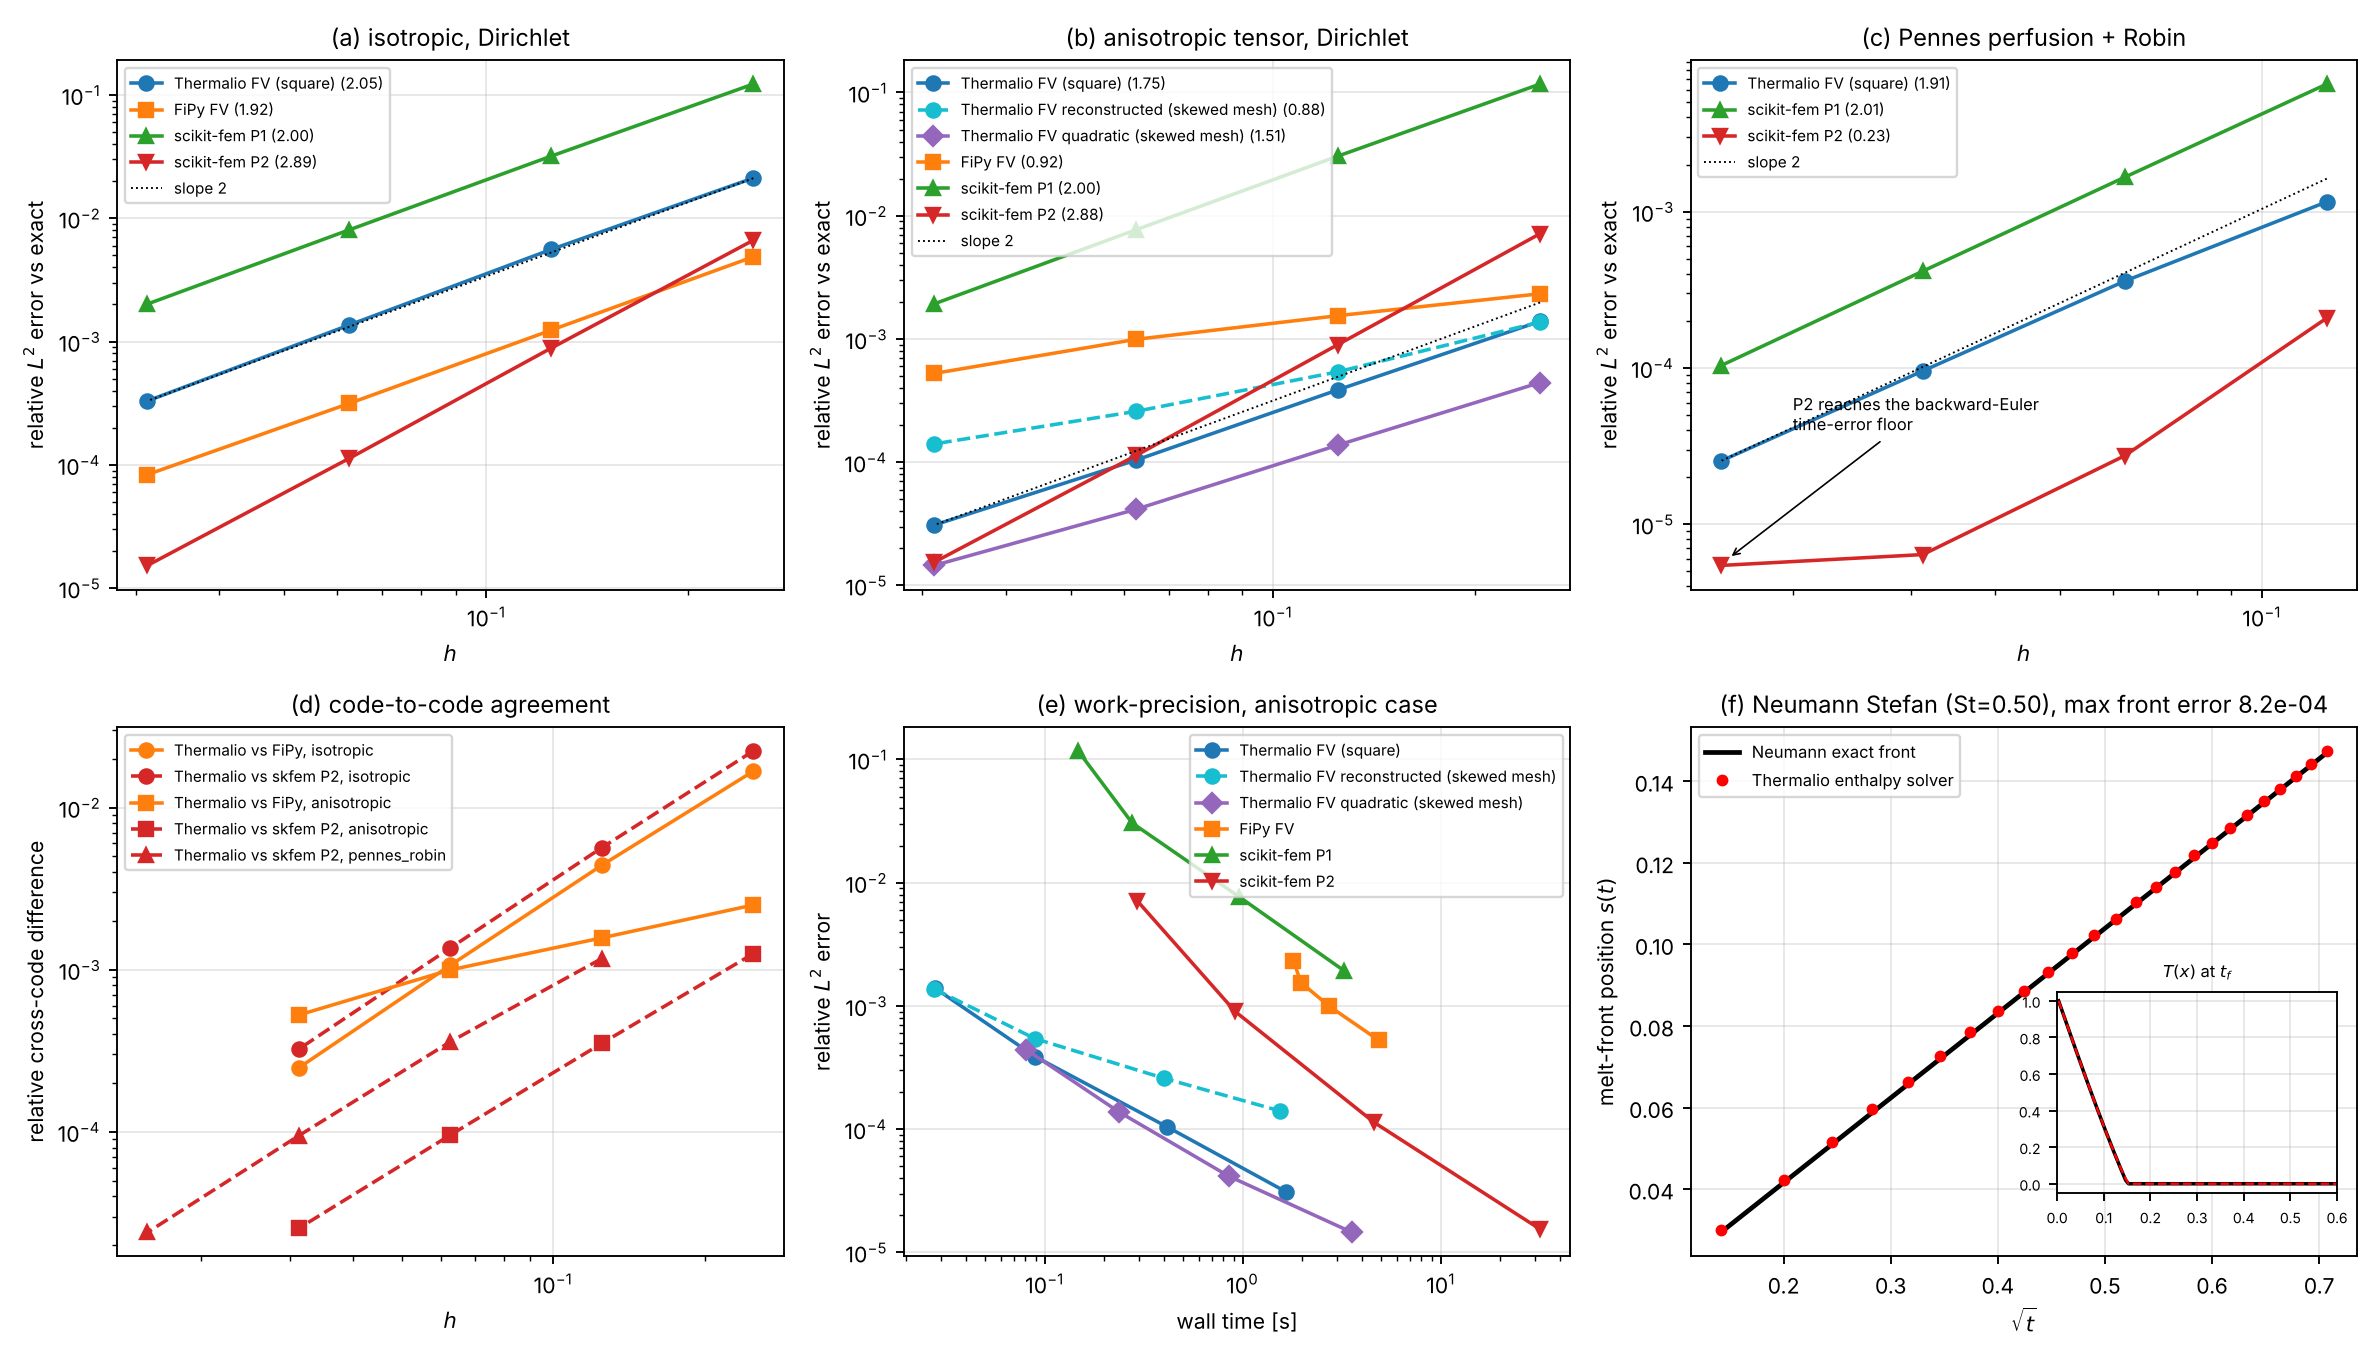
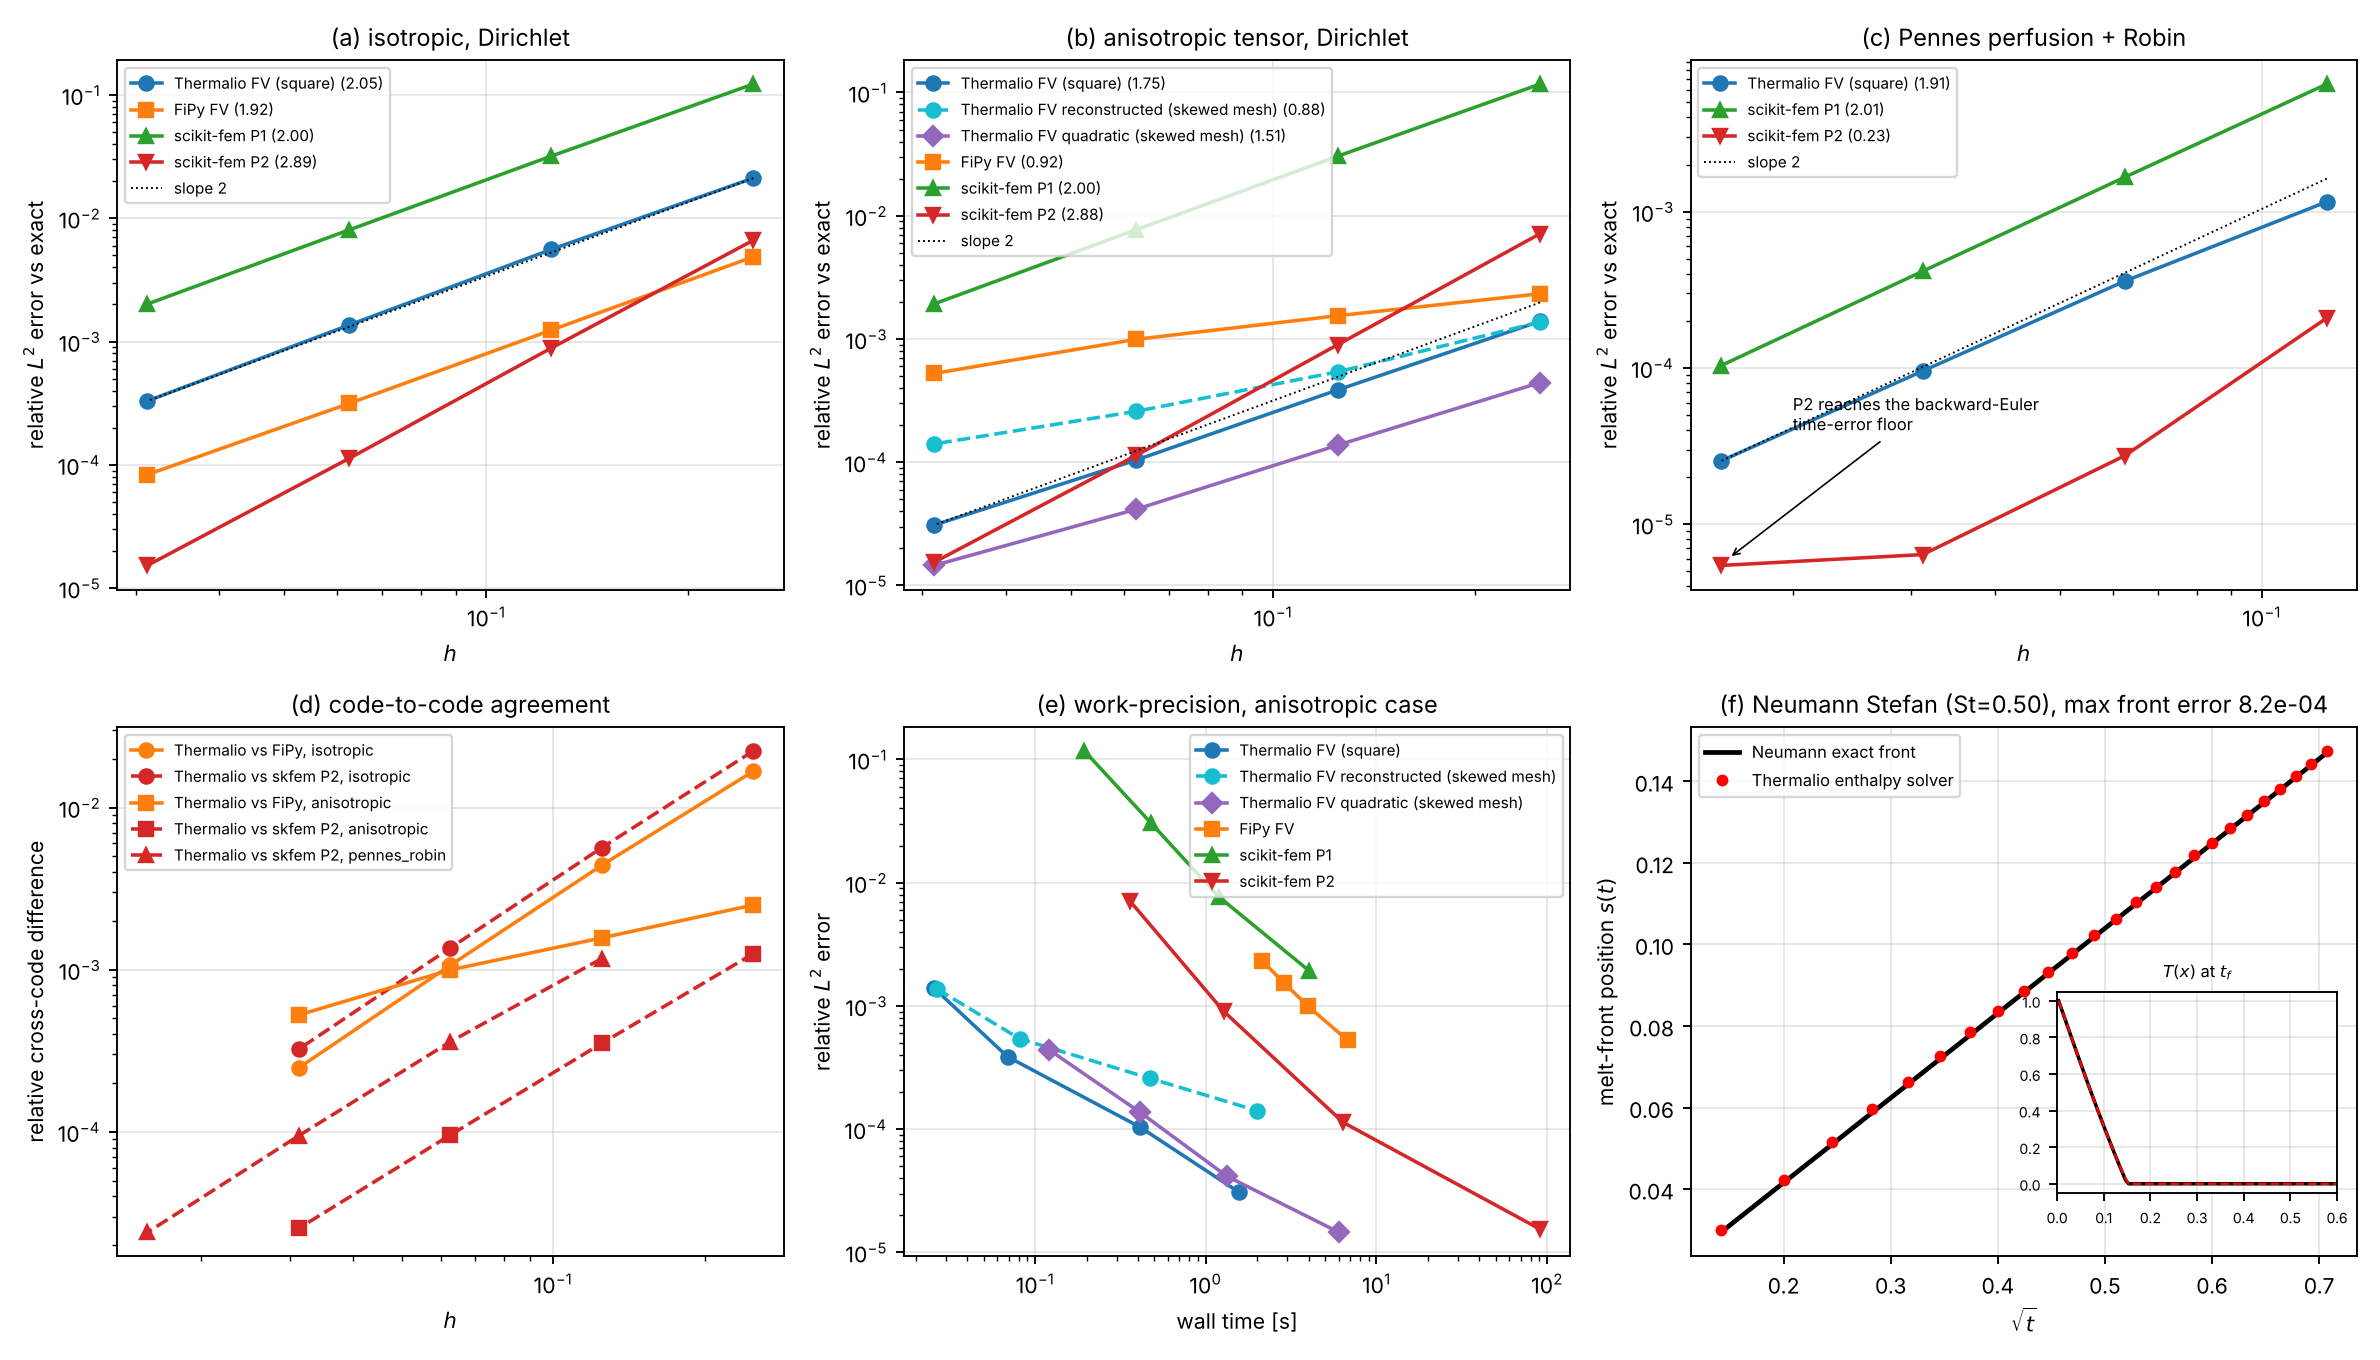
Refresh the external-code comparison with a timing figure
Rerun Thermalio vs FiPy vs scikit-fem (P1/P2) on the three manufactured
problems; new external_code_timing.png shows time to solution, per-DOF
cost, time to a target error (distinguishing 'already below target on
the coarsest mesh' from 'not reached') and work-precision per case.
--replot redraws from summary.json.

Claude-Session: https://claude.ai/code/session_011HYKRVXpQ5JX3zhN3NFDfX

diff --git a/external_code_comparison.py b/external_code_comparison.py
@@ -278,15 +278,25 @@ def _dofs(row, code):
     return row["thermalio_dofs"]
 
 
-def time_to_accuracy(times, errs, target):
-    """Log-log interpolation of wall time at which ``err = target`` (None if not bracketed)."""
+def time_to_accuracy(times, errs, target, with_status=False):
+    """Wall time at which ``err = target``, by log-log interpolation between runs.
+
+    Status: ``"interpolated"``; ``"coarsest"`` when even the coarsest run is
+    already below the target (the time returned is that run's, an upper
+    bound); ``"not reached"`` when the finest run is still above it (``None``).
+    """
     t, e = np.log(np.asarray(times, float)), np.log(np.asarray(errs, float))
-    for k in range(len(e) - 1):
-        lo, hi = sorted((e[k], e[k + 1]))
-        if lo <= np.log(target) <= hi and e[k] != e[k + 1]:
-            w = (np.log(target) - e[k]) / (e[k + 1] - e[k])
-            return float(np.exp(t[k] + w * (t[k + 1] - t[k])))
-    return None
+    result = (None, "not reached")
+    if e[0] <= np.log(target):
+        result = (float(np.exp(t[0])), "coarsest")
+    else:
+        for k in range(len(e) - 1):
+            lo, hi = sorted((e[k], e[k + 1]))
+            if lo <= np.log(target) <= hi and e[k] != e[k + 1]:
+                w = (np.log(target) - e[k]) / (e[k + 1] - e[k])
+                result = (float(np.exp(t[k] + w * (t[k + 1] - t[k]))), "interpolated")
+                break
+    return result if with_status else result[0]
 
 
 def timing_figure(results, case_meta):
@@ -317,19 +327,28 @@ def timing_figure(results, case_meta):
         for key in keys:
             rr = results[key]
             if code in rr[0] and f"{code}_time" in rr[0]:
-                vals.append(time_to_accuracy([r[f"{code}_time"] for r in rr], [r[code] for r in rr], targets[0]))
+                vals.append(time_to_accuracy([r[f"{code}_time"] for r in rr], [r[code] for r in rr], targets[0],
+                                             with_status=True))
             else:
-                vals.append(np.nan)
+                vals.append((np.nan, "absent"))
         xs = np.arange(len(keys)) + ci * width
         lab, _, col = TIMING_STYLES[code]
-        a.bar(xs, [v if v is not None else np.nan for v in vals], width, color=col, label=lab)
-        for x_, v in zip(xs, vals):
-            if v is None:
-                a.text(x_, 0.02, "not\nreached", ha="center", va="bottom", fontsize=5, rotation=90,
+        heights = [v if v is not None else np.nan for v, _ in vals]
+        bars = a.bar(xs, heights, width, color=col, label=lab)
+        for x_, bar, (v, status) in zip(xs, bars, vals):
+            if status == "not reached":
+                a.text(x_, 0.02, "not reached", ha="center", va="bottom", fontsize=5.5, rotation=90,
                        transform=a.get_xaxis_transform())
+            elif status == "coarsest":
+                bar.set_hatch("///"); bar.set_alpha(0.55)
+                a.text(x_, v, "\u2264", ha="center", va="bottom", fontsize=7)
     a.set_yscale("log"); a.set_xticks(np.arange(len(keys)) + 0.4 - width / 2); a.set_xticklabels(keys, fontsize=8)
-    a.set_ylabel("wall time [s]"); a.set_title(f"(c) time to reach {targets[0]:.0e} relative error")
-    a.legend(fontsize=6)
+    a.set_ylabel("wall time [s]")
+    a.set_title(f"(c) time to reach {targets[0]:.0e} relative error\n(hatched \u2264: already below on the "
+                "coarsest mesh; upper bound)", fontsize=9)
+    lo, hi = a.get_ylim()
+    a.set_ylim(lo, hi * 30)  # headroom for the legend
+    a.legend(fontsize=6, ncol=2, loc="upper center")
     for a, key, title in zip(ax[1], keys, ("(d) work-precision: isotropic", "(e) work-precision: anisotropic",
                                             "(f) work-precision: Pennes + Robin")):
         rr = results[key]
@@ -431,8 +450,9 @@ def main():
     import skfem
     summary["versions"] = {"fipy": fipy.__version__, "scikit-fem": skfem.__version__}
     summary["time_to_accuracy"] = {
-        key: {code: {f"{tg:.0e}": time_to_accuracy([r[f"{code}_time"] for r in rows], [r[code] for r in rows], tg)
-                     for tg in (1e-3, 1e-4)}
+        key: {code: {f"{tg:.0e}": dict(zip(("time", "status"), time_to_accuracy(
+            [r[f"{code}_time"] for r in rows], [r[code] for r in rows], tg, with_status=True)))
+            for tg in (1e-3, 1e-4)}
               for code in TIMING_STYLES if code in rows[0] and f"{code}_time" in rows[0]}
         for key, rows in results.items()
     }
@@ -448,5 +468,24 @@ def main():
     print("total", time.perf_counter() - t0)
 
 
+def replot():
+    """Redraw the timing figure from ``summary.json`` without rerunning the codes."""
+    summary = json.loads((OUT / "summary.json").read_text())
+    results = {k: summary[k] for k in ("isotropic", "anisotropic", "pennes_robin")}
+    timing_figure(results, {k: int(round(c["t_end"] / c["dt"])) for k, c in
+                            (("isotropic", isotropic_case()), ("anisotropic", anisotropic_case()),
+                             ("pennes_robin", pennes_robin_case()))})
+    summary["time_to_accuracy"] = {
+        key: {code: {f"{tg:.0e}": dict(zip(("time", "status"), time_to_accuracy(
+            [r[f"{code}_time"] for r in rows], [r[code] for r in rows], tg, with_status=True)))
+            for tg in (1e-3, 1e-4)}
+            for code in TIMING_STYLES if code in rows[0] and f"{code}_time" in rows[0]}
+        for key, rows in results.items()
+    }
+    (OUT / "summary.json").write_text(json.dumps(summary, indent=2))
+
+
 if __name__ == "__main__":
-    main()
+    import sys
+
+    replot() if "--replot" in sys.argv else main()
